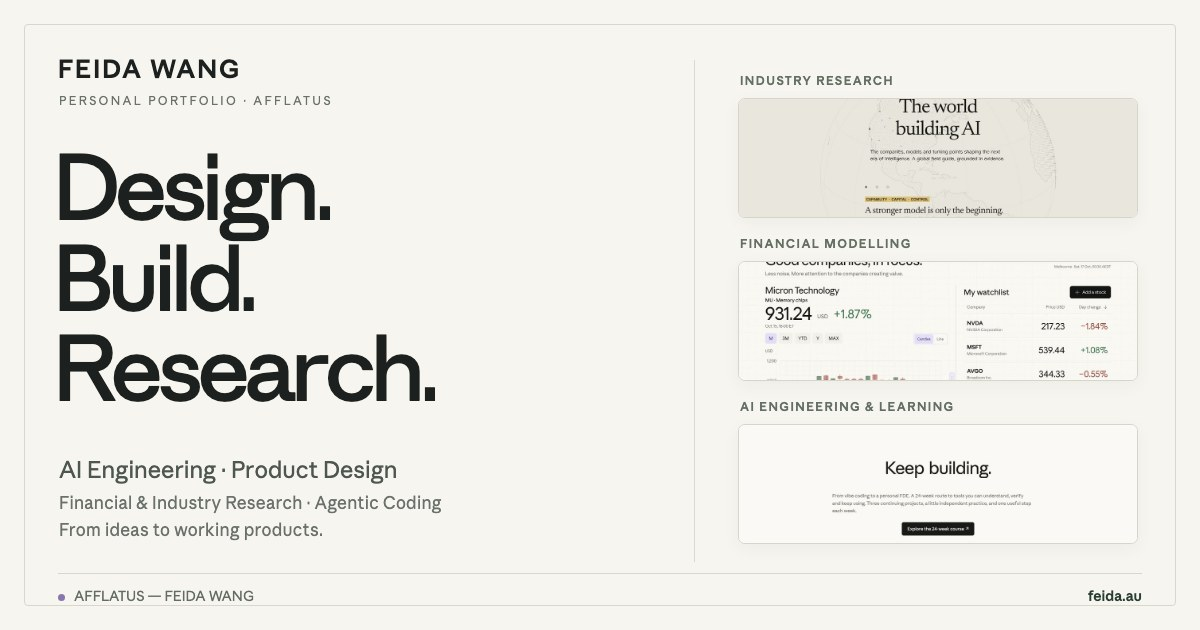
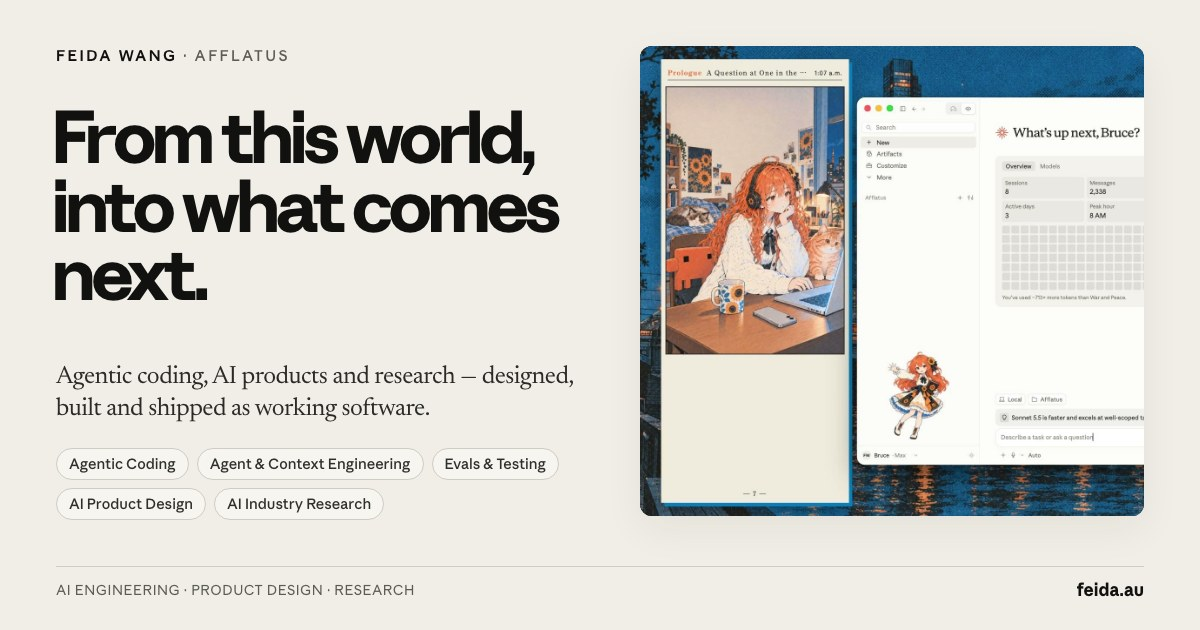
Align homepage social card and hero with the new site (#20)
* Align homepage social card and hero with the new site

Replace the main sharing card with one that mirrors the redesigned
homepage (headline, skills, film still), give it a new filename so
LinkedIn and other caches re-fetch it, refresh the share title and
description around AI engineering and agentic coding, and add a role
line to the hero so visitors see who the site belongs to.

* Untrack build-generated course pages

---------

diff --git a/index.html b/index.html
@@ -14,22 +14,22 @@
   <!-- afflatus:route-seo:start -->
   <meta property="og:type" content="website">
   <meta property="og:site_name" content="AFFLATUS — Feida Wang">
-  <meta property="og:title" content="Feida Wang — From Ideas to Working Products">
-  <meta property="og:description" content="A personal portfolio connecting AI-assisted engineering, thoughtful design, financial analysis and industry research.">
+  <meta property="og:title" content="Feida Wang — AI Engineering, Agentic Coding &amp; Research">
+  <meta property="og:description" content="A personal studio of working AI-era products, built solo with coding agents: an AI industry atlas, a Forward Deployed Engineer course, market research and original fiction.">
   <meta property="og:url" content="https://feida.au/en/">
   <meta property="og:locale" content="en_AU">
   <meta property="og:locale:alternate" content="zh_CN">
-  <meta property="og:image" content="https://feida.au/assets/og/main-en-personal-portfolio.jpg">
-  <meta property="og:image:secure_url" content="https://feida.au/assets/og/main-en-personal-portfolio.jpg">
+  <meta property="og:image" content="https://feida.au/assets/og/main-en-studio.jpg">
+  <meta property="og:image:secure_url" content="https://feida.au/assets/og/main-en-studio.jpg">
   <meta property="og:image:type" content="image/jpeg">
   <meta property="og:image:width" content="1200">
   <meta property="og:image:height" content="630">
-  <meta property="og:image:alt" content="Feida Wang personal portfolio: AI engineering, product design, financial modelling and industry research">
+  <meta property="og:image:alt" content="Feida Wang: AI engineering, agentic coding, product design and research, with a still from the homepage film">
   <meta name="twitter:card" content="summary_large_image">
-  <meta name="twitter:title" content="Feida Wang — From Ideas to Working Products">
-  <meta name="twitter:description" content="A personal portfolio connecting AI-assisted engineering, thoughtful design, financial analysis and industry research.">
-  <meta name="twitter:image" content="https://feida.au/assets/og/main-en-personal-portfolio.jpg">
-  <meta name="twitter:image:alt" content="Feida Wang personal portfolio: AI engineering, product design, financial modelling and industry research">
+  <meta name="twitter:title" content="Feida Wang — AI Engineering, Agentic Coding &amp; Research">
+  <meta name="twitter:description" content="A personal studio of working AI-era products, built solo with coding agents: an AI industry atlas, a Forward Deployed Engineer course, market research and original fiction.">
+  <meta name="twitter:image" content="https://feida.au/assets/og/main-en-studio.jpg">
+  <meta name="twitter:image:alt" content="Feida Wang: AI engineering, agentic coding, product design and research, with a still from the homepage film">
   <script type="application/ld+json" data-afflatus-route-schema="main" lang="en-AU">
   {
   "@context": "https://schema.org",
@@ -57,11 +57,11 @@
     {
       "@type": "ImageObject",
       "@id": "https://feida.au/en/#primaryimage",
-      "url": "https://feida.au/assets/og/main-en-personal-portfolio.jpg",
-      "contentUrl": "https://feida.au/assets/og/main-en-personal-portfolio.jpg",
+      "url": "https://feida.au/assets/og/main-en-studio.jpg",
+      "contentUrl": "https://feida.au/assets/og/main-en-studio.jpg",
       "width": 1200,
       "height": 630,
-      "caption": "Feida Wang personal portfolio: AI engineering, product design, financial modelling and industry research",
+      "caption": "Feida Wang: AI engineering, agentic coding, product design and research, with a still from the homepage film",
       "inLanguage": "en-AU"
     },
     {
@@ -123,7 +123,7 @@
       <section class="premiere" id="top" aria-labelledby="home-title">
         <div class="premiere-intro section-shell">
           <h1 id="home-title"><span data-en="From this world," data-zh="从这颗星球，">From this world,</span> <span data-en="into what comes" data-zh="驶向更远的">into what comes</span> <span data-en="next." data-zh="地方。">next.</span></h1>
-          <div class="premiere-copy"><p data-en="Stories we write, things we build, and new ways to understand the world around us." data-zh="关于我们写下的故事、亲手做出的作品，以及理解这个世界的新方法。">Stories we write, things we build, and new ways to understand the world around us.</p><a class="text-link" href="/en/portfolio.html" data-en="Explore the work" data-zh="探索作品">Explore the work</a></div>
+          <div class="premiere-copy"><p class="premiere-role" data-en="Feida Wang · AI engineering, agentic coding &amp; research" data-zh="王飞达 · AI 工程、编程智能体与研究">Feida Wang · AI engineering, agentic coding &amp; research</p><p data-en="Stories we write, things we build, and new ways to understand the world around us." data-zh="关于我们写下的故事、亲手做出的作品，以及理解这个世界的新方法。">Stories we write, things we build, and new ways to understand the world around us.</p><a class="text-link" href="/en/portfolio.html" data-en="Explore the work" data-zh="探索作品">Explore the work</a></div>
         </div>
         <div class="film-shell"><div class="film-player" id="film">
           <div class="film-stage"><div class="film-frame">

diff --git a/src/config/siteManifest.js b/src/config/siteManifest.js
@@ -22,7 +22,7 @@ export const SOCIAL_CARD = Object.freeze({
 });
 
 export const socialCardFilename = (routeId, locale) =>
-  `${routeId}-${locale}${routeId === 'main' ? '-personal-portfolio' : ''}.${SOCIAL_CARD.extension}`;
+  `${routeId}-${locale}${routeId === 'main' ? '-studio' : ''}.${SOCIAL_CARD.extension}`;
 
 const routeOgImage = (routeId, locale) =>
   `https://feida.au/assets/og/${socialCardFilename(routeId, locale)}`;
@@ -32,14 +32,14 @@ export const ROUTE_SEO = Object.freeze({
     social: {
       background: 'assets/og-backgrounds/home.jpg',
       eyebrow: { en: 'FEIDA WANG · AFFLATUS', zh: '王飞达 FEIDA WANG · AFFLATUS' },
-      title: { en: 'Design. Build. Research.', zh: '设计。构建。研究。' },
+      title: { en: 'From this world, into what comes next.', zh: '从这颗星球，驶向更远的地方。' },
       subtitle: {
-        en: 'AI Engineering · Product Design · Financial & Industry Research',
-        zh: 'AI 工程 · 产品设计 · 金融与产业研究',
+        en: 'Agentic coding, AI products and research — designed, built and shipped as working software.',
+        zh: '编程智能体、AI 产品与研究——设计、构建，并作为真实运行的软件上线。',
       },
       alt: {
-        en: 'Feida Wang personal portfolio: AI engineering, product design, financial modelling and industry research',
-        zh: '王飞达个人作品集：AI 工程、产品设计、金融建模与产业研究',
+        en: 'Feida Wang: AI engineering, agentic coding, product design and research, with a still from the homepage film',
+        zh: '王飞达：AI 工程、编程智能体、产品设计与研究，配首页影片画面',
       },
       images: { en: routeOgImage('main', 'en'), zh: routeOgImage('main', 'zh') },
     },
@@ -205,13 +205,13 @@ export const SITE_MANIFEST = Object.freeze([
       // Root URLs adapt to the visitor's language; their canonical is the
       // default-locale document (/en/…, or /zh/ for the Chinese-only serial).
       canonical: 'https://feida.au/en/',
-      ogTitle: "Feida Wang — From Ideas to Working Products",
-      ogDescription: "A personal portfolio connecting AI-assisted engineering, thoughtful design, financial analysis and industry research.",
+      ogTitle: "Feida Wang — AI Engineering, Agentic Coding & Research",
+      ogDescription: "A personal studio of working AI-era products, built solo with coding agents: an AI industry atlas, a Forward Deployed Engineer course, market research and original fiction.",
       ogImage: ROUTE_SEO.main.social.images.en,
     },
     locales: {
-      en: {title: "Feida Wang | AI Engineering, Product Design & Research", description: "Explore Feida Wang’s work in full-stack development, UI/UX design, agentic coding, financial modelling and AI industry research through working products.", ogTitle: "Feida Wang — From Ideas to Working Products", ogDescription: "A personal portfolio connecting AI-assisted engineering, thoughtful design, financial analysis and industry research."},
-      zh: {title: "王飞达 Feida Wang｜AI 工程、产品设计与跨领域研究", description: "通过真实运行的产品，探索王飞达在全栈开发、UI/UX 设计、编程智能体、金融建模与 AI 产业研究中的跨领域实践。", ogTitle: "王飞达 Feida Wang — 从想法到真实运行的产品", ogDescription: "连接 AI 辅助工程、产品设计、金融分析与产业研究的个人作品集。"},
+      en: {title: "Feida Wang | AI Engineering, Product Design & Research", description: "Explore Feida Wang’s work in full-stack development, UI/UX design, agentic coding, financial modelling and AI industry research through working products.", ogTitle: "Feida Wang — AI Engineering, Agentic Coding & Research", ogDescription: "A personal studio of working AI-era products, built solo with coding agents: an AI industry atlas, a Forward Deployed Engineer course, market research and original fiction."},
+      zh: {title: "王飞达 Feida Wang｜AI 工程、产品设计与跨领域研究", description: "通过真实运行的产品，探索王飞达在全栈开发、UI/UX 设计、编程智能体、金融建模与 AI 产业研究中的跨领域实践。", ogTitle: "王飞达 Feida Wang — AI 工程 · 编程智能体 · 产业研究", ogDescription: "用编程智能体独立构建的 AI 时代个人工作室：AI 产业图鉴、FDE 实战课程、市场研究与原创小说。"},
     },
   },
   {

diff --git a/src/showcase/premiere.css b/src/showcase/premiere.css
@@ -34,6 +34,7 @@ h1, h2, p { margin: 0; }
 .text-link { display: inline-flex; align-items: center; justify-content: space-between; gap: 18px; width: fit-content; padding-block: 7px; border-bottom: 1px solid currentColor; text-decoration: none; font-size: 19px; line-height: 1.3; }
 .text-link svg { flex: none; width: 22px; height: 22px; transition: transform 180ms ease; }
 .text-link:hover svg { transform: translateX(4px); }
+.premiere-intro .premiere-copy .premiere-role { margin-bottom: 16px; font-family: var(--af-font-sans); font-size: 13px; font-weight: 600; line-height: 1.4; letter-spacing: .12em; text-transform: uppercase; color: var(--home-muted); max-width: none; }
 .premiere-copy .text-link { margin-top: 18px; font-family: var(--home-serif); font-size: 29px; }
 .film-shell { --film-edge: max(var(--home-gutter), calc((100vw - var(--home-shell)) / 2 + var(--home-gutter))); --film-gap: calc(clamp(32px, 4.5vw, 64px) * (1 - var(--film-expansion, 0))); width: 100%; padding-bottom: var(--film-gap); min-height: calc(var(--film-slot-height, 0px) + var(--film-gap)); }
 .film-player { scroll-margin-top: 88px; }

diff --git a/src/showcase/PremiereApp.jsx b/src/showcase/PremiereApp.jsx
@@ -22,6 +22,7 @@ export function App({ language: initialLanguage } = {}) {
         <div className="premiere-intro section-shell">
           <h1 id="home-title">{zh ? <><span>从这颗星球，</span><span>驶向更远的</span><span>地方。</span></> : <><span>From this world,</span>{' '}<span>into what comes</span>{' '}<span>next.</span></>}</h1>
           <div className="premiere-copy">
+            <p className="premiere-role">{zh ? '王飞达 · AI 工程、编程智能体与研究' : 'Feida Wang · AI engineering, agentic coding & research'}</p>
             <p>{zh ? '关于我们写下的故事、亲手做出的作品，以及理解这个世界的新方法。' : 'Stories we write, things we build, and new ways to understand the world around us.'}</p>
             <SiteLink href="/portfolio.html" language={language}>{zh ? '探索作品' : 'Explore the work'}</SiteLink>
           </div>

diff --git a/tests/siteManifest.test.js b/tests/siteManifest.test.js
@@ -97,7 +97,7 @@ describe('siteManifest', () => {
       for (const locale of SITE_LOCALES) {
         const image = route.seo.social.images[locale];
         expect(image).toBe(
-          `https://feida.au/assets/og/${route.id}-${locale}${route.id === 'main' ? '-personal-portfolio' : ''}.${SOCIAL_CARD.extension}`,
+          `https://feida.au/assets/og/${route.id}-${locale}${route.id === 'main' ? '-studio' : ''}.${SOCIAL_CARD.extension}`,
         );
         expect(socialImages.has(image)).toBe(false);
         socialImages.add(image);
